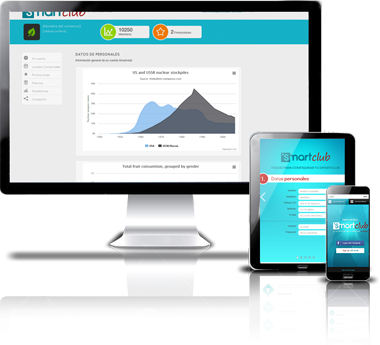
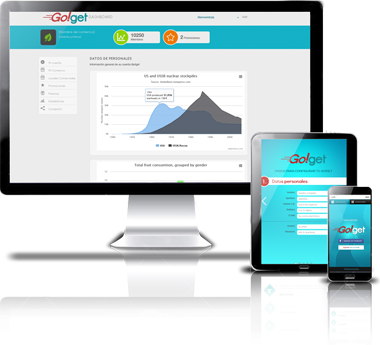
Cambio de nombre Go!get
Cambio de imagenes, index.html  all-site.css, a nuevo nombre Go!get

diff --git a/index.html b/index.html
@@ -3,7 +3,7 @@
 <html>
 <head>
 <meta charset="UTF-8">
-<title>SmartClub</title>
+<title>Go!get - compra, acumula y gana</title>
 <meta name="viewport" content="width=device-width, initial-scale=1, maximum-scale=1" />
 <link rel="stylesheet" type="text/css" href="css/all-site.css">
 <link rel="icon" type="image/ico" href="images/icon.gif" />
@@ -12,6 +12,7 @@
 <link rel="stylesheet" href="css/login.css"></head>
 <link href="css/skdslider.css" rel="stylesheet">
 <link rel="stylesheet" href="js/jNotify.jquery.css" type="text/css" />
+<link rel="icon" type="image/ico" href="images/ico_goget.png" />
 <!--<link href="css/menu.css" rel="stylesheet" type="text/css">-->
 <script type="text/javascript" src="js/modernizr.custom.32123.js"></script>
 <script src="http://code.jquery.com/jquery.js"></script>
@@ -122,7 +123,7 @@ $(function(){
 <body>
   <nav role="top_page" class="subMenu" id="menu">
     <section class="container">
-      <figure><a id="topBtn" href="#top"class="topBtn"><img src="images/logo_smartclub.png"/></a></figure>
+      <figure><a id="topBtn" href="#top"class="topBtn"><img src="images/logo_goget.png"/></a></figure>
        <div class="dropdown menuprincipal icomenu">
         <a href="#" class="menudesp icon-menu" data-toggle="dropdown"></a>
         <ul class="dropdown-menu droprincipal" role="menu">
@@ -193,12 +194,12 @@ $(function(){
       <article>
         <figure><img src="images/escanea.png"/></figure>
         <h4><aside>1.</aside> <p>Escanea el <br/><strong>c&oacute;digo</strong></p></h4>
-        <p>Escanea el código QR en tu SmartClub, en el momento de realizar la compra en tu negocio favorito.</p>
+        <p>Escanea el código QR en tu <em>Go!</em>get App, en el momento de realizar la compra en tu negocio favorito.</p>
       </article>
       <article>
         <figure><img src="images/acumula.png"/></figure>
         <h4><aside>2.</aside> <p>Acumula <br/><strong>punchs</strong></p></h4>
-        <p>Cada vez que leas el código, acumulas punchs en tu cuenta SmartClub.</p>
+        <p>Cada vez que leas el código, acumulas punchs en tu cuenta <em>Go!</em>get.</p>
       </article>
       <article>
         <figure><img src="images/canjea.png"/></figure>
@@ -241,7 +242,7 @@ $(function(){
           </header>
           <section class="desc_ben">
             <p><strong>&#191;Ya estas cansado de llevar muchas tarjetas de lealtad en tu billereta?</strong><br/>
-            Descarga el app Smartclub y disfruta de multiples ventajas en los estableciomientos afiliados.</p>
+            Descarga el app <em>Go!</em>get y disfruta de multiples ventajas en los estableciomientos afiliados.</p>
             <figure>
               <img src="images/google_play.png">
             </figure>
@@ -269,7 +270,7 @@ $(function(){
                 </div>
                  <a href="#" data-toggle="modal" data-target="#registro" class="demoBtn inscribirse">Inscribirme</a>
                  <br/>
-                 <div class="ingresar">¡Ya disfruto de mi <strong>Smartclub!</strong><a href="#" data-toggle="modal" data-target="#myModal" class="demoBtn">Ingresar a mi tienda</a></div>
+                 <div class="ingresar">¡Ya disfruto de mi <strong><em>Go!</em>get!</strong><a href="#" data-toggle="modal" data-target="#myModal" class="demoBtn">Ingresar a mi tienda</a></div>
               </blockquote>
           
         </div>
@@ -295,7 +296,7 @@ $(function(){
       <aside class="video">
         <header class="benef_desc">
             <h3>beneficios</h3>
-            <h4>Porque SmartClub es una excelente opci&oacute;n</h4>
+            <h4>Porque <em>Go!</em>get es una excelente opci&oacute;n</h4>
           </header>
           <section class="desc_ben">
             <article>
@@ -422,7 +423,7 @@ $(function(){
     <div class="modal-content">
       <div class="modal-header">
         <button type="button" class="close" data-dismiss="modal"><span aria-hidden="true">&times;</span><span class="sr-only">Close</span></button>
-        <h4 class="modal-title" id="myModalLabel">Inscribirse a Smartclub</h4>
+        <h4 class="modal-title" id="myModalLabel">Inscribirse a <em>Go!</em>get</h4>
       </div>
       <div class="modal-body planes">
         <figure class="titplan">
@@ -462,7 +463,7 @@ $(function(){
     <div class="modal-content">
       <div class="modal-header">
         <button type="button" class="close" data-dismiss="modal"><span aria-hidden="true">&times;</span><span class="sr-only">Close</span></button>
-        <h4 class="modal-title" id="myModalLabel">Comprar tu plan Smartclub</h4>
+        <h4 class="modal-title" id="myModalLabel">Comprar tu plan <em>Go!</em>get</h4>
       </div>
       <div class="modal-body pagar">
         <div class="resumen">
@@ -512,5 +513,6 @@ $("[id*='Btn']").stop(true).on('click',function(e){e.preventDefault();$(this).sc
 
 </script>
 <script src="js/jquery.cbpFWSlider.min.js"></script>
+
 </body>
 </html>

diff --git a/css/all-site.css b/css/all-site.css
@@ -19,11 +19,14 @@ body{
 nav[role="top_page"]{
 	background: #fff;
 	box-shadow: 5px 5px 5px rgba(0,0,0,0.5);
-
 }
 nav[role="top_page"] figure, nav[role="top_page"] ul.menufull{
 	display: inline-block;
 	vertical-align: top;
+}
+nav[role="top_page"] figure{
+	padding: 10px 5% 0 10px;
+	width:30%;
 }
 nav[role="top_page"] figure img{
 	width: 100%;
